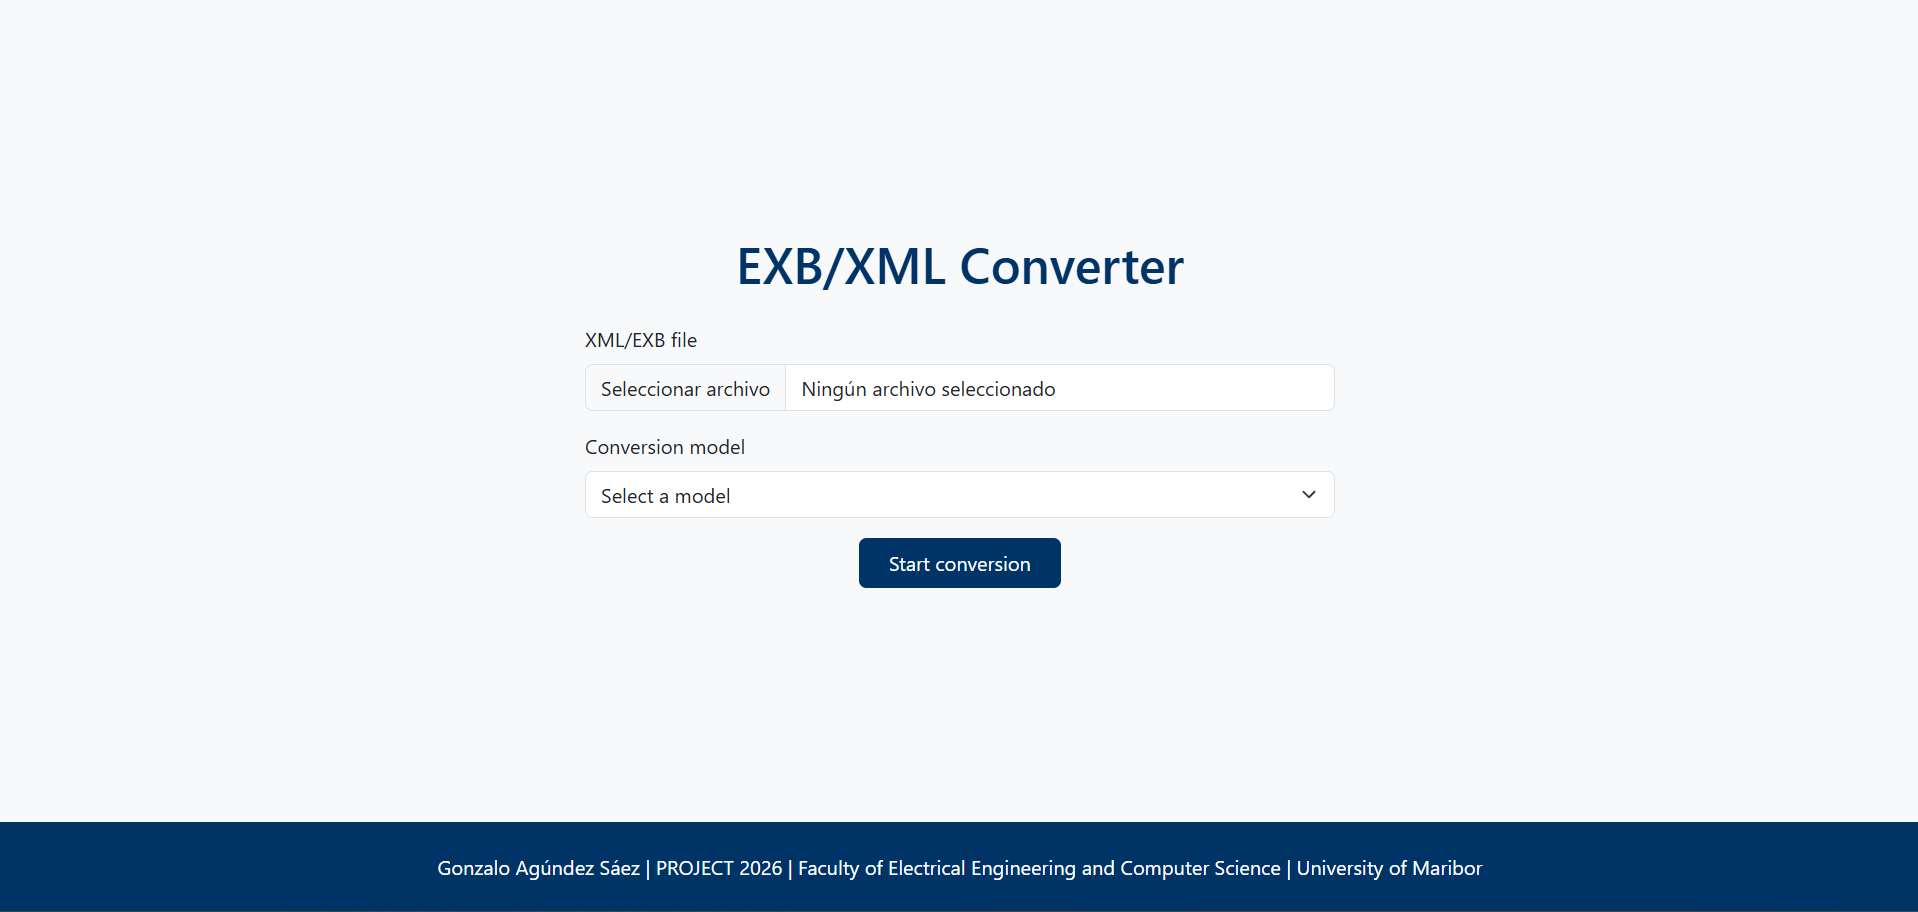
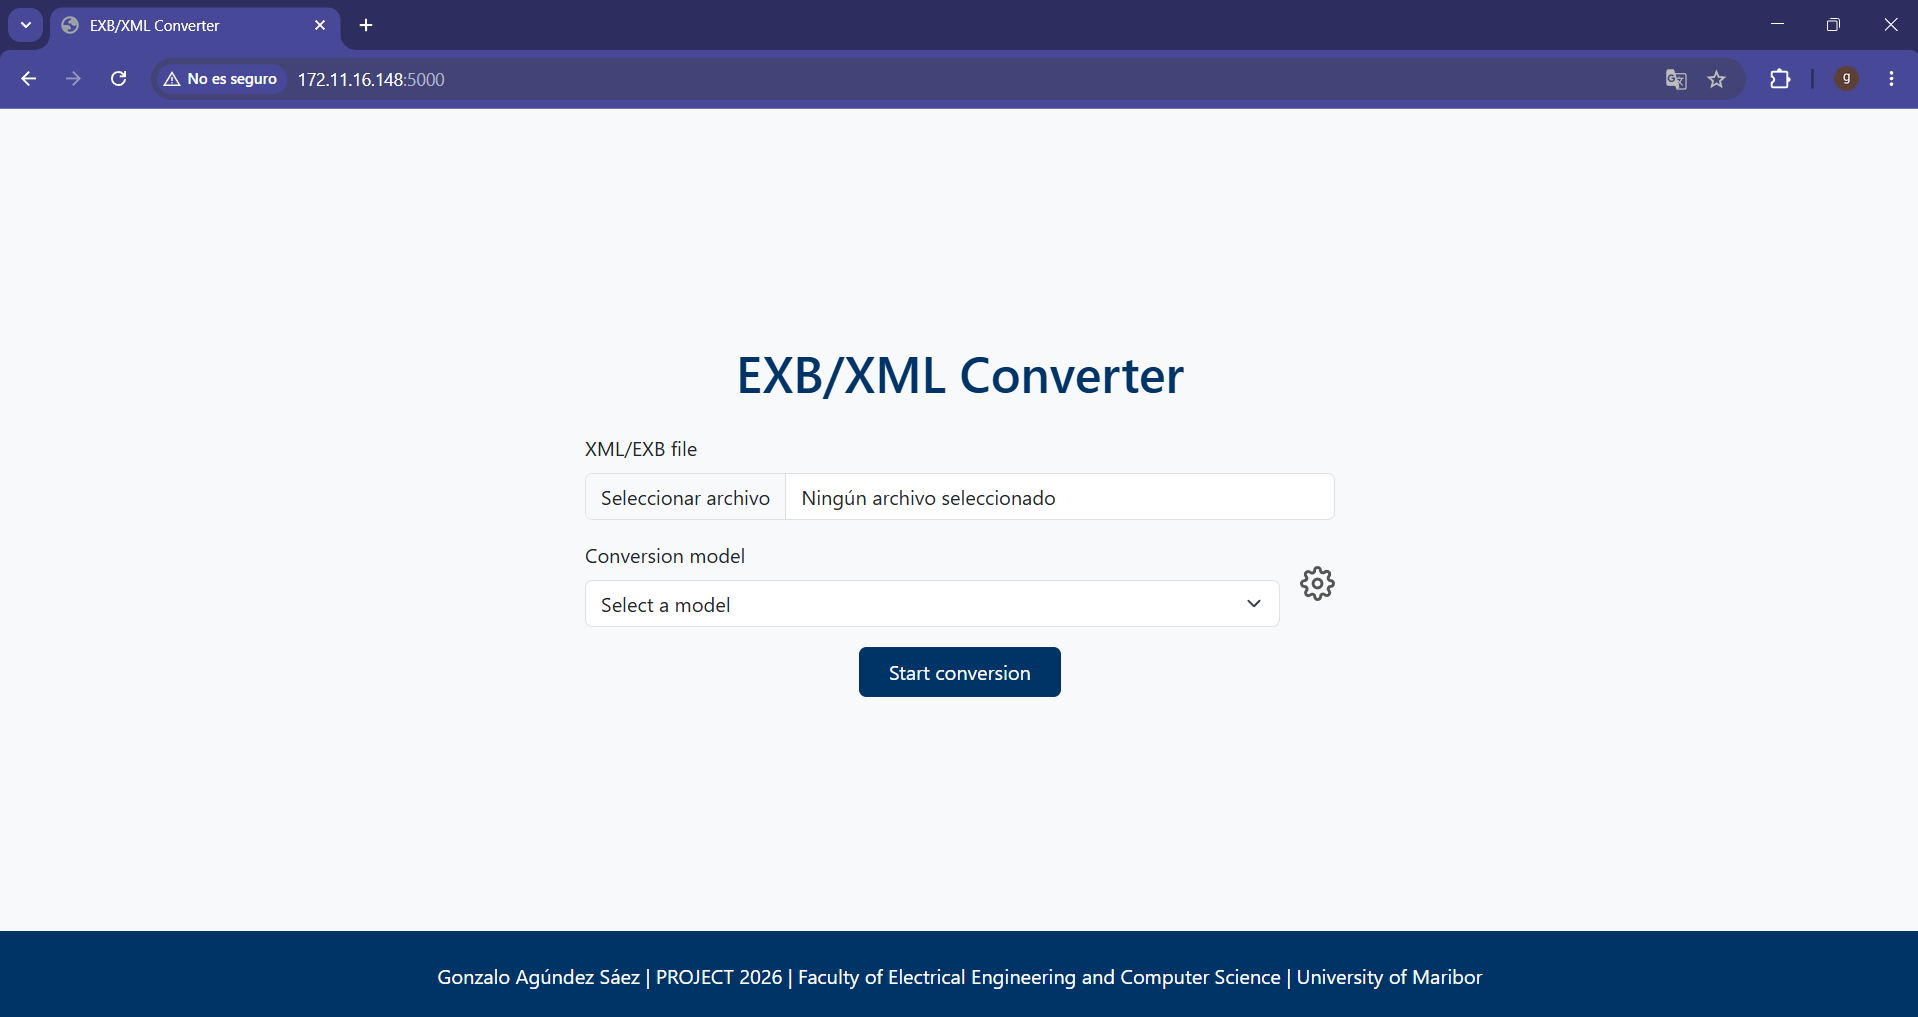
I've updated README

diff --git a/README.md b/README.md
@@ -1,28 +1,34 @@
 # XML–EXB Converter
 
-A lightweight Flask-based tool for converting and normalizing transcription files in **XML** and **EXB** formats.  
-The application processes linguistic tiers, applies a selected text‑conversion model, and generates a new normalized tier while preserving the original structure.
+A lightweight Flask-based tool for converting and normalizing transcription files in **XML** and **EXB** formats.
+The application processes linguistic tiers, applies a selected text-conversion model via XML-RPC, and generates a new normalized tier while preserving the original file structure byte-for-byte.
 
-## Interface Preview
+---
 
-Below is a screenshot of the application's main interface:
+## Interface
 
-![Interface Screenshot](static/interface.png)
+| Main form | Server Settings modal |
+|:---------:|:---------------------:|
+| ![Main interface](static/interface.png) | ![Settings modal](static/interface_settings.png) |
 
 ---
 
 ## Features
 
-- Upload **XML** or **EXB** transcription files.
-- Automatic parsing and validation of the file structure.
-- Detection and processing of tiers with:
-  - `category="v"`
-  - `type="t"`
-- Creation of a new normalized tier (`category="norm"`, `type="t"`).
-- Modification of the original tier to (`category="colloq"`, `type="a"`).
-- Tokenization → model processing → detokenization pipeline.
-- Clean and responsive interface using **Bootstrap 5**.
-- Download of the converted file with the original extension preserved.
+- Upload **XML** or **EXB** transcription files (`.xml` / `.exb`).
+- Automatic parsing and validation — clear inline error messages for malformed files.
+- Detection and processing of verbatim tiers with `category="v"` **and** `type="t"` simultaneously; all other tiers are left untouched.
+- For each matching tier:
+  - A new **normalized tier** (`category="norm"`, `type="t"`, id suffixed `_norm`) is inserted immediately before the original.
+  - The original tier is relabelled to `category="colloq"`, `type="a"`.
+- Full **tokenization → model → detokenization** pipeline using NLTK.
+- Two selectable conversion models:
+  - **Model 1 – Simple Conversion**: sends a `"model"` parameter to the RPC server.
+  - **Model 2 – Full Normalization**: uses the RPC server's default model.
+- **Runtime RPC configuration**: change the server IP, port, and timeout from the web interface — no restart needed.
+- Original file formatting preserved exactly (no attribute reordering, no whitespace changes).
+- Output filename mirrors the input with a `_converted` suffix.
+- Clean, responsive single-page interface using **Bootstrap 5**.
 - Docker support for easy deployment.
 
 ---
@@ -30,35 +36,36 @@ Below is a screenshot of the application's main interface:
 ## How It Works
 
 1. The user uploads an XML/EXB file and selects a conversion model.
-2. The application parses the file and identifies relevant tiers.
-3. For each event inside those tiers:
-   - The text is tokenized.
-   - It is sent to the selected model (currently simulated).
-   - The output is detokenized to restore natural punctuation spacing.
-4. A new normalized tier is inserted before the original one.
-5. The original tier is re-labeled as a colloq tier.
-6. The final XML is formatted and returned as a downloadable file.
+2. The file is parsed with `xml.etree.ElementTree` while the original text is kept verbatim as a separate string.
+3. The application iterates over all `<tier>` elements and selects those with `category="v"` and `type="t"`.
+4. For each matching tier, each `<event>`'s text goes through:
+   - **Tokenization** – `wordpunct_tokenize` splits words and punctuation.
+   - **Model dispatch** – text is sent to the RPC server (currently simulated).
+   - **Detokenization** – natural punctuation spacing is restored.
+5. A new normalized tier (containing the converted events) is inserted into the original text using a regex that locates the opening tag regardless of attribute order.
+6. The original tier's attributes are updated in-place in the original text.
+7. The modified file is returned as a download, with the original structure intact.
 
 ---
 
 ## Project Structure
 
 ```
-project/
-├── app.py
+xml-exb-converter/
+├── app.py                  # All Flask routes and server-side logic
+├── config_runtime.json     # RPC server address and timeout (editable at runtime)
 ├── Dockerfile
 ├── requirements.txt
 ├── README.md
-│
 ├── templates/
-│   └── index.html
-│
+│   └── index.html          # Jinja2 template (single-page interface)
 └── static/
     ├── css/
-    │   └── styles.css
+    │   └── styles.css      # FERI colour scheme
     ├── js/
-    │   └── clean_errors.js
-    └── interface.png
+    │   └── clean_errors.js # Client-side behaviour (errors, reload, settings)
+    ├── interface.png
+    └── interface_settings.png
 ```
 
 ---
@@ -74,8 +81,8 @@ cd xml-exb-converter
 ### 2. Create and activate a virtual environment
 ```bash
 python -m venv venv
-source venv/bin/activate        # macOS/Linux
-venv\Scripts\activate           # Windows
+source venv/bin/activate      # macOS / Linux
+venv\Scripts\activate         # Windows
 ```
 
 ### 3. Install dependencies
@@ -85,12 +92,13 @@ pip install -r requirements.txt
 
 ---
 
-##  Running the Application
+## Running the Application
 
-### Development mode
 ```bash
 python app.py
 ```
+
+The application will be available at **http://127.0.0.1:5000**.
 
 ---
 
@@ -103,27 +111,61 @@ docker build -t xml-exb-converter .
 
 ### Run the container
 ```bash
-docker run -p 5000:5000 xml-exb-converter
+docker run --rm -p 5000:5000 xml-exb-converter
 ```
+
+The application is then available at **http://localhost:5000**.
+
+### Persist RPC settings across restarts
+Mount `config_runtime.json` as a host volume so changes made through the Settings modal survive container restarts:
+
+```bash
+docker run --rm -p 5000:5000 \
+    -v $(pwd)/config_runtime.json:/app/config_runtime.json \
+    xml-exb-converter
+```
+
+---
+
+## Runtime RPC Configuration
+
+The RPC server connection parameters are stored in `config_runtime.json`:
+
+```json
+{
+    "RPC_SERVER_IP": "localhost",
+    "RPC_SERVER_PORT": 6000,
+    "RPC_TIMEOUT": 10
+}
+```
+
+These values can be changed **without restarting the application** by clicking the ⚙ gear icon next to the model selector in the web interface. The new settings take effect on the next conversion request.
+
+---
+
+## Connecting the Real RPC Server
+
+The XML-RPC conversion pipeline is fully wired. To activate it, uncomment two lines in `convertText()` inside `app.py`:
+
+```python
+# url   = f"http://{RPC_SERVER_IP}:{RPC_SERVER_PORT}/RPC2"
+# proxy = xmlrpc.client.ServerProxy(url, timeout=RPC_TIMEOUT)
+...
+# result = proxy.translate(params)['text']
+```
+
+Update `config_runtime.json` with the server's IP and port, and the application will forward all conversion requests to it automatically.
 
 ---
 
 ## Requirements
 
 - Python 3.11+
-- Flask
+- Flask 3.1+
 - NLTK
 - Docker (optional)
 
 All Python dependencies are listed in `requirements.txt`.
-
----
-
-## Notes
-
-- The text‑conversion model is currently simulated.  
-  The XML‑RPC call is prepared and can be activated once the model server is available.
-- The application validates that the uploaded file is **well‑formed XML**, and returns a clear parsing error if not.
 
 ---
 
